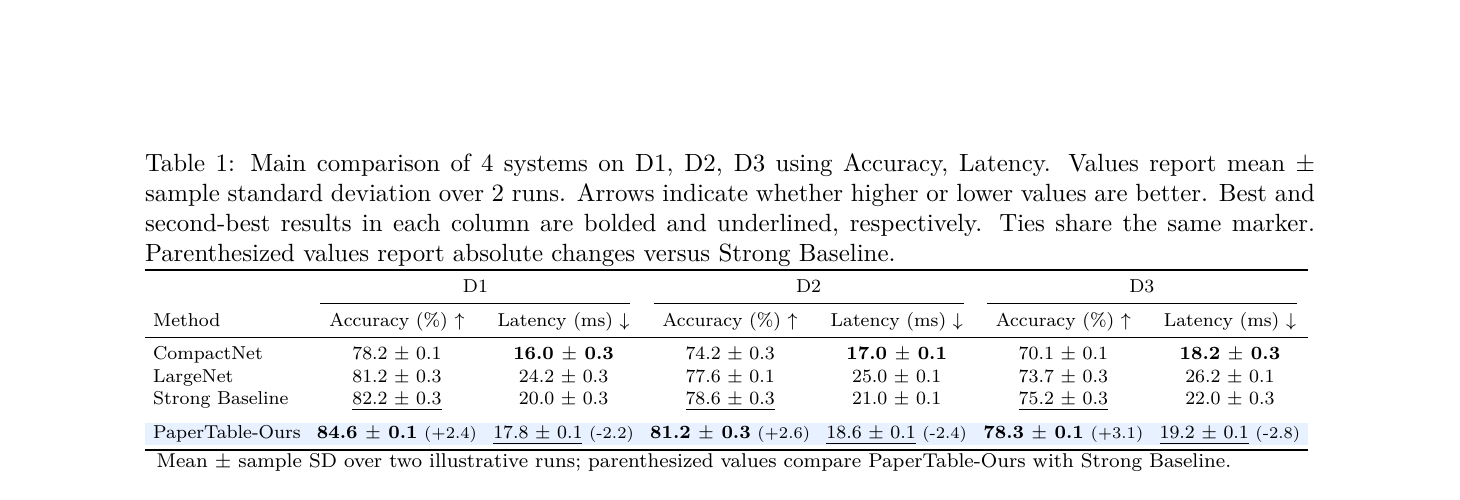
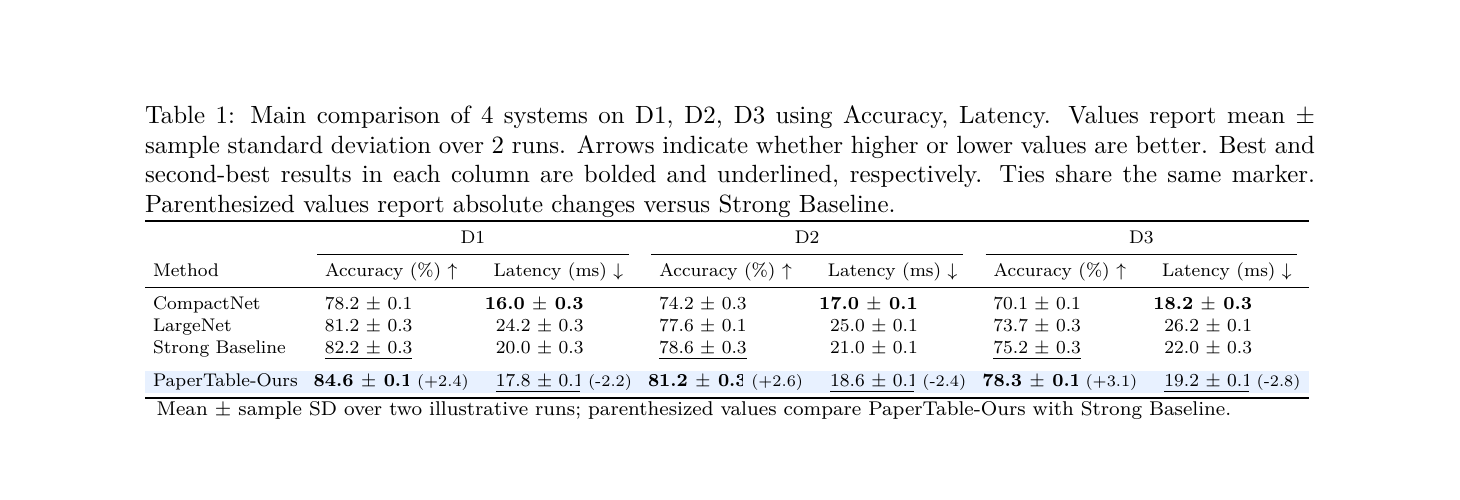
fix: keep primary values aligned with auxiliary deltas

Changed region(s): [[0.0925, 0.21, 0.8938, 0.96]]

diff --git a/src/papertable/render.py b/src/papertable/render.py
@@ -56,15 +56,26 @@ def _cell_precision(spec: dict[str, Any], row: dict[str, Any], column: dict[str,
     return spec["metrics"][metric]["precision"]
 
 
-def _groups(columns: list[dict[str, Any]]) -> list[tuple[str, int]]:
+def _groups(columns: list[dict[str, Any]], widths: list[int] | None = None) -> list[tuple[str, int]]:
     groups: list[tuple[str, int]] = []
-    for column in columns:
+    for index, column in enumerate(columns):
         label = column.get("group_label") or ""
+        width = widths[index] if widths else 1
         if groups and groups[-1][0] == label:
-            groups[-1] = (label, groups[-1][1] + 1)
+            groups[-1] = (label, groups[-1][1] + width)
         else:
-            groups.append((label, 1))
+            groups.append((label, width))
     return groups
+
+
+def _auxiliary_columns(spec: dict[str, Any]) -> set[int]:
+    """Return logical columns that need a separate, alignment-preserving auxiliary slot."""
+    return {
+        column_index
+        for row in spec["rows"]
+        for column_index, cell in enumerate(row["cells"])
+        if cell and cell.get("auxiliary")
+    }
 
 
 def _row_separator(spec: dict[str, Any], row_index: int) -> bool:
@@ -107,6 +118,12 @@ def render_latex(spec: dict[str, Any], caption: str) -> str:
     band_color = _color(style.get("group_band_color"), "EFEFEF")
     highlight_color = _color(style.get("highlight_color"), "E8F1FF")
     highlight_methods = set(style.get("highlight_methods", []))
+    auxiliary_columns = _auxiliary_columns(spec)
+    physical_widths = [2 if index in auxiliary_columns else 1 for index in range(len(columns))]
+    column_spec = "l" * len(identity_columns) + "".join(
+        r"r@{\hspace{0.25em}}l" if index in auxiliary_columns else "c"
+        for index in range(len(columns))
+    )
     lines = [
         f"\\begin{{{environment}}}[t]", "  \\centering",
         f"  \\{font_size}",
@@ -116,10 +133,10 @@ def render_latex(spec: dict[str, Any], caption: str) -> str:
     if fit_width:
         lines.append("  \\resizebox{\\textwidth}{!}{%")
     lines.extend([
-        "  \\begin{tabular}{" + "l" * len(identity_columns) + "c" * len(columns) + "}",
+        "  \\begin{tabular}{" + column_spec + "}",
         "    \\toprule",
     ])
-    groups = _groups(columns)
+    groups = _groups(columns, physical_widths)
     has_groups = any(label for label, _ in groups)
     if has_groups:
         header = [""] * len(identity_columns) + [
@@ -135,7 +152,11 @@ def render_latex(spec: dict[str, Any], caption: str) -> str:
         if rules:
             lines.append("    " + " ".join(rules))
     leaf_header = [latex_escape(field["label"]) for field in identity_columns]
-    leaf_header += [_column_header(spec, column) for column in columns]
+    leaf_header += [
+        f"\\multicolumn{{2}}{{c}}{{{_column_header(spec, column)}}}"
+        if index in auxiliary_columns else _column_header(spec, column)
+        for index, column in enumerate(columns)
+    ]
     lines.append("    " + " & ".join(leaf_header) + r" \\")
     lines.append("    \\midrule")
 
@@ -143,7 +164,7 @@ def render_latex(spec: dict[str, Any], caption: str) -> str:
     for row_index, row in enumerate(spec["rows"]):
         group_changed = row_index == 0 or row.get("group") != spec["rows"][row_index - 1].get("group")
         if group_bands and row.get("group") and group_changed:
-            span = len(identity_columns) + len(columns)
+            span = len(identity_columns) + sum(physical_widths)
             lines.append(
                 f"    \\rowcolor[HTML]{{{band_color}}} "
                 f"\\multicolumn{{{span}}}{{c}}{{\\textbf{{{latex_escape(row['group'])}}}}} \\\\"
@@ -159,9 +180,9 @@ def render_latex(spec: dict[str, Any], caption: str) -> str:
             elif cell_style == "underline":
                 value = f"\\underline{{{value}}}"
             auxiliary = _auxiliary_text(cell)
-            if auxiliary:
-                value += f" {{\\scriptsize ({latex_escape(auxiliary)})}}"
             values.append(value)
+            if column_index in auxiliary_columns:
+                values.append(f"{{\\scriptsize ({latex_escape(auxiliary)})}}" if auxiliary else "")
         prefix = f"\\rowcolor[HTML]{{{highlight_color}}} " if row.get("method") in highlight_methods else ""
         lines.append("    " + prefix + " & ".join(_identity_values(spec, row_index) + values) + r" \\")
     lines.extend(["    \\bottomrule", "  \\end{tabular}"])
@@ -191,8 +212,9 @@ def render_html(spec: dict[str, Any], caption: str) -> str:
     band_color = _color(style.get("group_band_color"), "EFEFEF")
     highlight_color = _color(style.get("highlight_color"), "E8F1FF")
     highlight_methods = set(style.get("highlight_methods", []))
+    auxiliary_columns = _auxiliary_columns(spec)
     out = ["<!doctype html>", '<meta charset="utf-8">', "<style>",
-           f"table{{border-collapse:collapse;font:14px system-ui;margin:2rem auto}}caption{{font-weight:600;margin:.8rem}}th,td{{padding:.45rem .7rem;text-align:center;border-bottom:1px solid #bbb}}thead tr:first-child th{{border-top:2px solid #222}}tbody tr:last-child td{{border-bottom:2px solid #222}}th:first-child,td:first-child{{text-align:left}}tbody tr.group-start td{{border-top:1.5px solid #555}}tbody tr.group-band th{{background:#{band_color};text-align:center;font-weight:700;border-top:1.5px solid #555}}.aux{{font-size:.78em;color:#555;margin-left:.25em}}",
+           f"table{{border-collapse:collapse;font:14px system-ui;margin:2rem auto}}caption{{font-weight:600;margin:.8rem}}th,td{{padding:.45rem .7rem;text-align:center;border-bottom:1px solid #bbb}}thead tr:first-child th{{border-top:2px solid #222}}tbody tr:last-child td{{border-bottom:2px solid #222}}th:first-child,td:first-child{{text-align:left}}tbody tr.group-start td{{border-top:1.5px solid #555}}tbody tr.group-band th{{background:#{band_color};text-align:center;font-weight:700;border-top:1.5px solid #555}}.cell-grid{{display:inline-grid;width:100%;grid-template-columns:minmax(0,1fr) 4.8em;column-gap:.25em;align-items:baseline}}.cell-grid .primary{{text-align:right}}.cell-grid .aux{{font-size:.78em;color:#555;text-align:left}}",
            "</style>", "<table>", f"<caption>{html.escape(caption)}</caption>", "<thead>"]
     if has_groups:
         out.append("<tr>" + "".join(f'<th rowspan="2">{html.escape(f["label"])}</th>' for f in spec["identity_columns"]) + "".join(
@@ -220,8 +242,12 @@ def render_html(spec: dict[str, Any], caption: str) -> str:
             elif cell_style == "underline":
                 escaped = f"<u>{escaped}</u>"
             auxiliary = _auxiliary_text(cell)
-            if auxiliary:
-                escaped += f'<span class="aux">({html.escape(auxiliary)})</span>'
+            if column_index in auxiliary_columns:
+                auxiliary_html = f"({html.escape(auxiliary)})" if auxiliary else ""
+                escaped = (
+                    f'<span class="cell-grid"><span class="primary">{escaped}</span>'
+                    f'<span class="aux">{auxiliary_html}</span></span>'
+                )
             cells.append(f"<td>{escaped}</td>")
         class_name = ' class="group-start"' if _row_separator(spec, row_index) and not group_bands else ""
         row_style = f' style="background:#{highlight_color}"' if row.get("method") in highlight_methods else ""

diff --git a/tests/test_pipeline.py b/tests/test_pipeline.py
@@ -218,14 +218,21 @@ def test_auxiliary_delta_preserves_main_value_and_lineage(tmp_path: Path) -> Non
     )
     spec = json.loads((tmp_path / "statistical-delta/table-spec.json").read_text())
     latex = (tmp_path / "statistical-delta/table.tex").read_text(encoding="utf-8")
+    html = (tmp_path / "statistical-delta/table.html").read_text(encoding="utf-8")
     target = next(row for row in spec["rows"] if row["method"] == "PaperTable-Ours")
 
     assert manifest["auxiliary_display"] == ["delta"]
     assert target["cells"][0]["mean"] == pytest.approx(84.6)
     assert target["cells"][0]["auxiliary"]["value"] == pytest.approx(2.4)
     assert target["cells"][0]["n"] == 2
-    assert r"{\scriptsize (+2.4)}" in latex
-    assert r"{\scriptsize (-2.2)}" in latex
+    assert r"r@{\hspace{0.25em}}l" in latex
+    assert r"\multicolumn{2}{c}{Accuracy (\%) $\uparrow$}" in latex
+    assert r"\textbf{84.6 $\pm$ 0.1} & {\scriptsize (+2.4)}" in latex
+    assert r"\underline{17.8 $\pm$ 0.1} & {\scriptsize (-2.2)}" in latex
+    baseline_line = next(line for line in latex.splitlines() if line.lstrip().startswith("Strong Baseline &"))
+    target_line = next(line for line in latex.splitlines() if "PaperTable-Ours &" in line)
+    assert baseline_line.count(" & ") == target_line.count(" & ") == 12
+    assert html.count('class="cell-grid"') == 24
 
 
 def test_auxiliary_delta_requires_unique_baseline(tmp_path: Path) -> None:

diff --git a/SKILL.md b/SKILL.md
@@ -40,7 +40,7 @@ Turn experimental evidence into one main-paper table whose structure makes the p
 - Compare best/second only inside a valid column or row group. Render missing evidence as `--`, never as zero, and exclude it from ranking.
 - Treat row bands, separators, and shaded focal rows as semantic navigation: use them for method families, protocol regimes, or the focal method, never as arbitrary decoration.
 - Define the ranking universe before applying bold or underline. Closed models, oracles, ensembles, literature-only values, or incompatible protocols may be displayed while explicitly excluded from ranking.
-- When displaying a parenthesized delta, preserve the absolute result and declare its baseline and whether the delta is absolute or relative. Never replace the primary measurement with a percentage gain alone.
+- When displaying a parenthesized delta, preserve the absolute result and declare its baseline and whether the delta is absolute or relative. Give the auxiliary value a separate secondary slot in every affected metric column so primary values remain aligned across rows; never append it in a way that shifts the primary value or replace the measurement with a percentage gain alone.
 - Keep visual channels non-overlapping: a restrained row shade may locate the focal method, bold may mark best, and underline may mark second-best. Do not reuse one marker for provenance and significance.
 - Do not mix single runs, mean ± SD, published point estimates, and reproduced runs without explicit source markers and caption/notes.
 - Keep the caption factual: evaluation scope, aggregation/uncertainty, metric direction, emphasis semantics, and essential comparability constraints.

diff --git a/references/template-schema.md b/references/template-schema.md
@@ -91,6 +91,8 @@ Preserve the primary value while adding a parenthesized absolute or relative cha
 
 Selectors may use any displayed identity field. The baseline must match exactly one row; ambiguity is an error. `kind` is `absolute` or `relative_percent`. The generated caption names the baseline and delta type.
 
+The renderer treats the delta as a secondary subcell. It reserves that subcell across every row of each affected metric column, including blank slots for rows without deltas, so the primary measurements remain aligned.
+
 ## Selection and compression
 
 Lists in `selection` filter and order the corresponding dimension. `max_columns` is optional; when used, metric `priority` chooses which columns stay in the main table. Every removed column is recorded in `manifest.json.omitted_columns`.

diff --git a/references/design-grammar.md b/references/design-grammar.md
@@ -46,6 +46,8 @@ Choose one primary representation per evidence type:
 
 Never infer uncertainty or significance. Define precision and unit per metric. Rank on unrounded values, then format. Missing, not applicable, and failed experiments are different states; the current renderer reserves `--` for unavailable evidence.
 
+Auxiliary values are optional annotations, not peers of the primary measurement. When any row in a metric column shows a delta or interval annotation, reserve the same secondary slot for that whole column (blank in rows without one). The primary values must keep a shared alignment axis; adding information must not shift the focal row's measurements sideways.
+
 ## 5. Emphasis grammar
 
 Recommended default:

diff --git a/README.md b/README.md
@@ -18,7 +18,7 @@
 
 ![Statistical table with paired deltas](docs/assets/gallery/statistical-delta.png)
 
-主值、重复实验波动和相对指定 baseline 的绝对增量同时保留；增量不参与 best/second-best 排名。
+主值、重复实验波动和相对指定 baseline 的绝对增量同时保留；辅助增量使用独立次级槽位，不移动各行主值的对齐轴，也不参与 best/second-best 排名。
 
 ### 模型 / 方法 / 可训练参数分层
 
